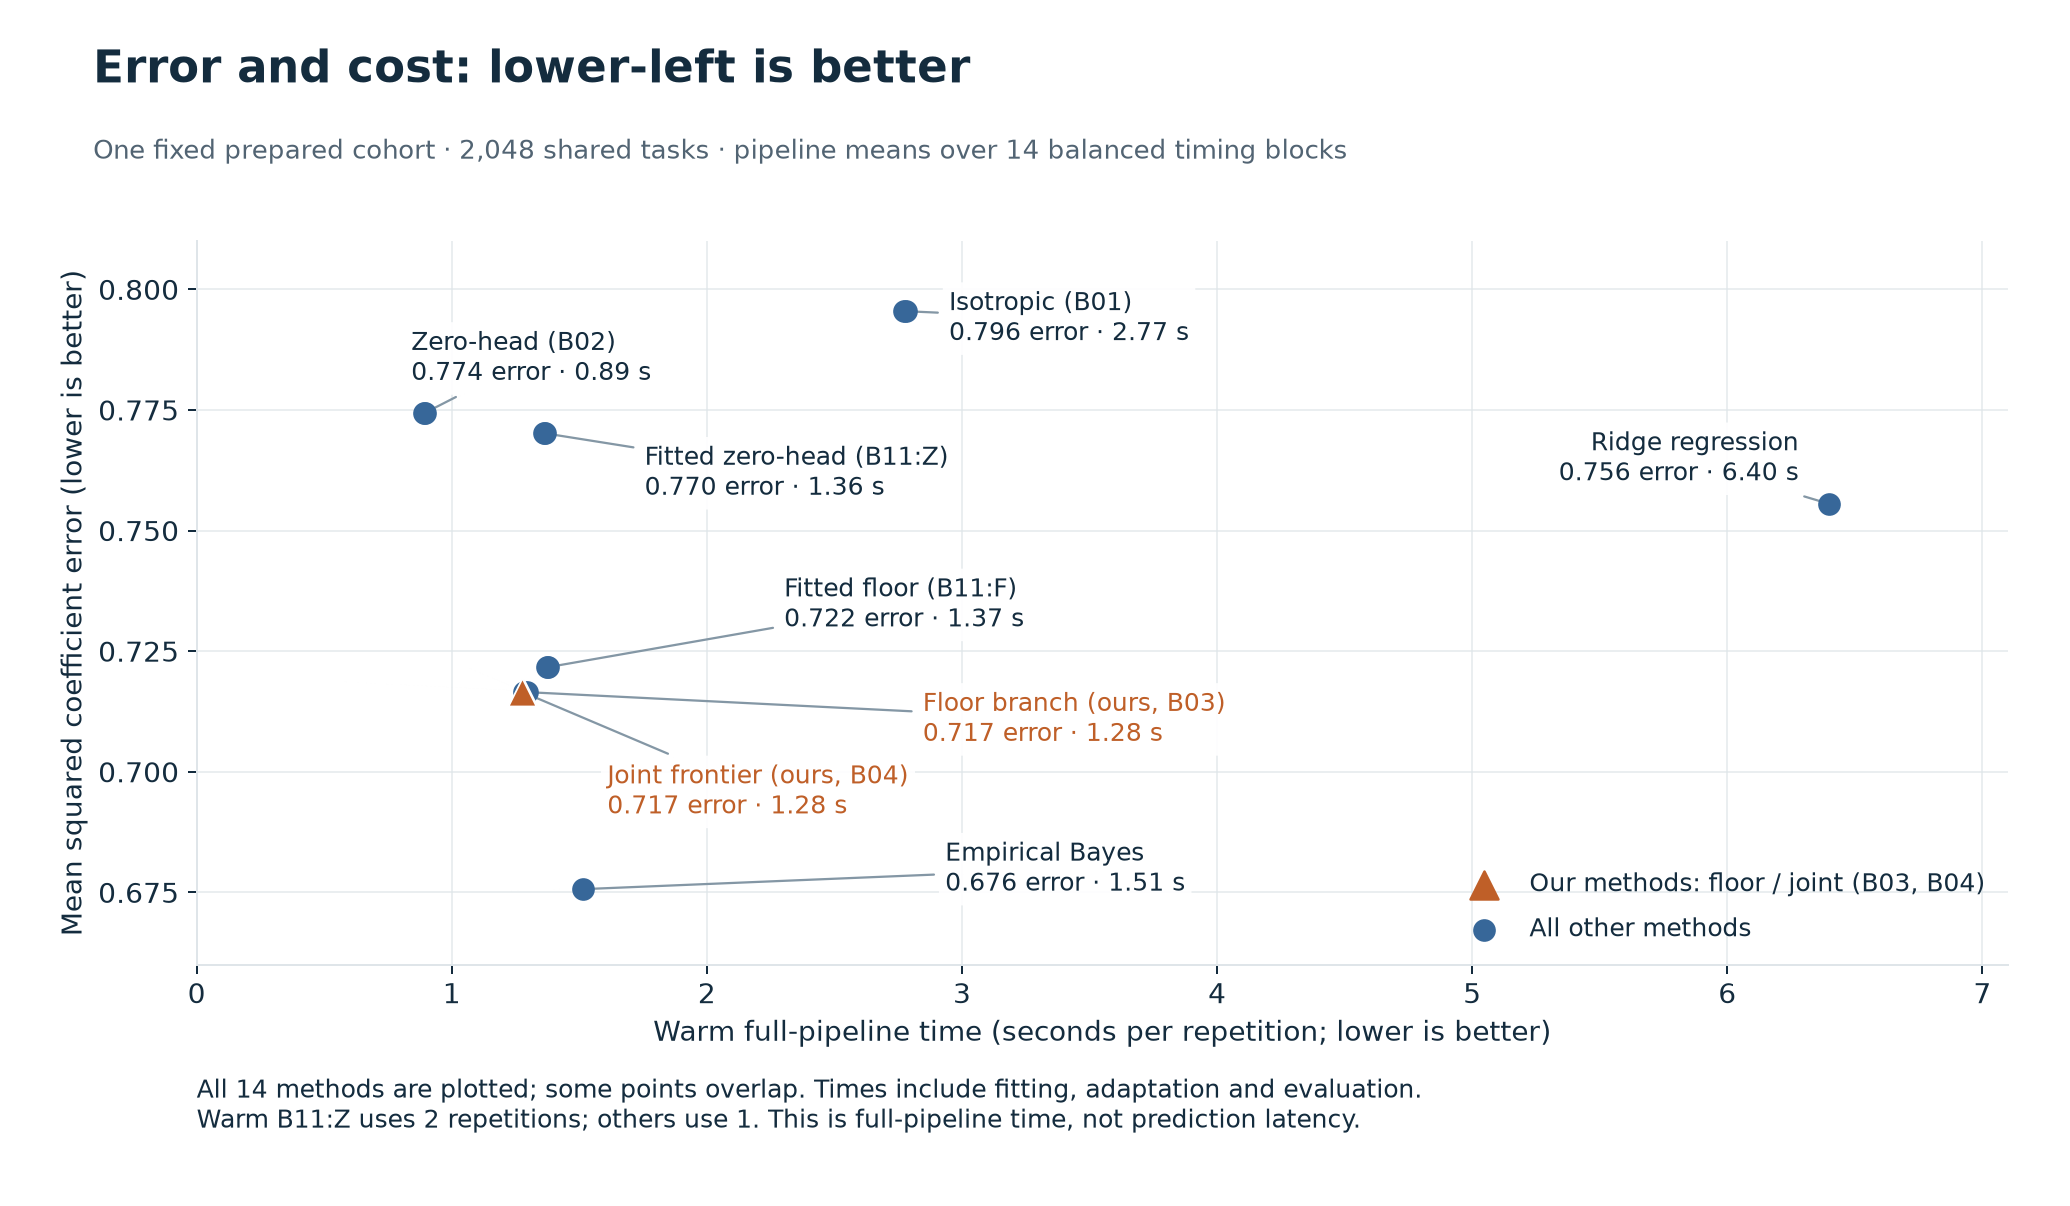
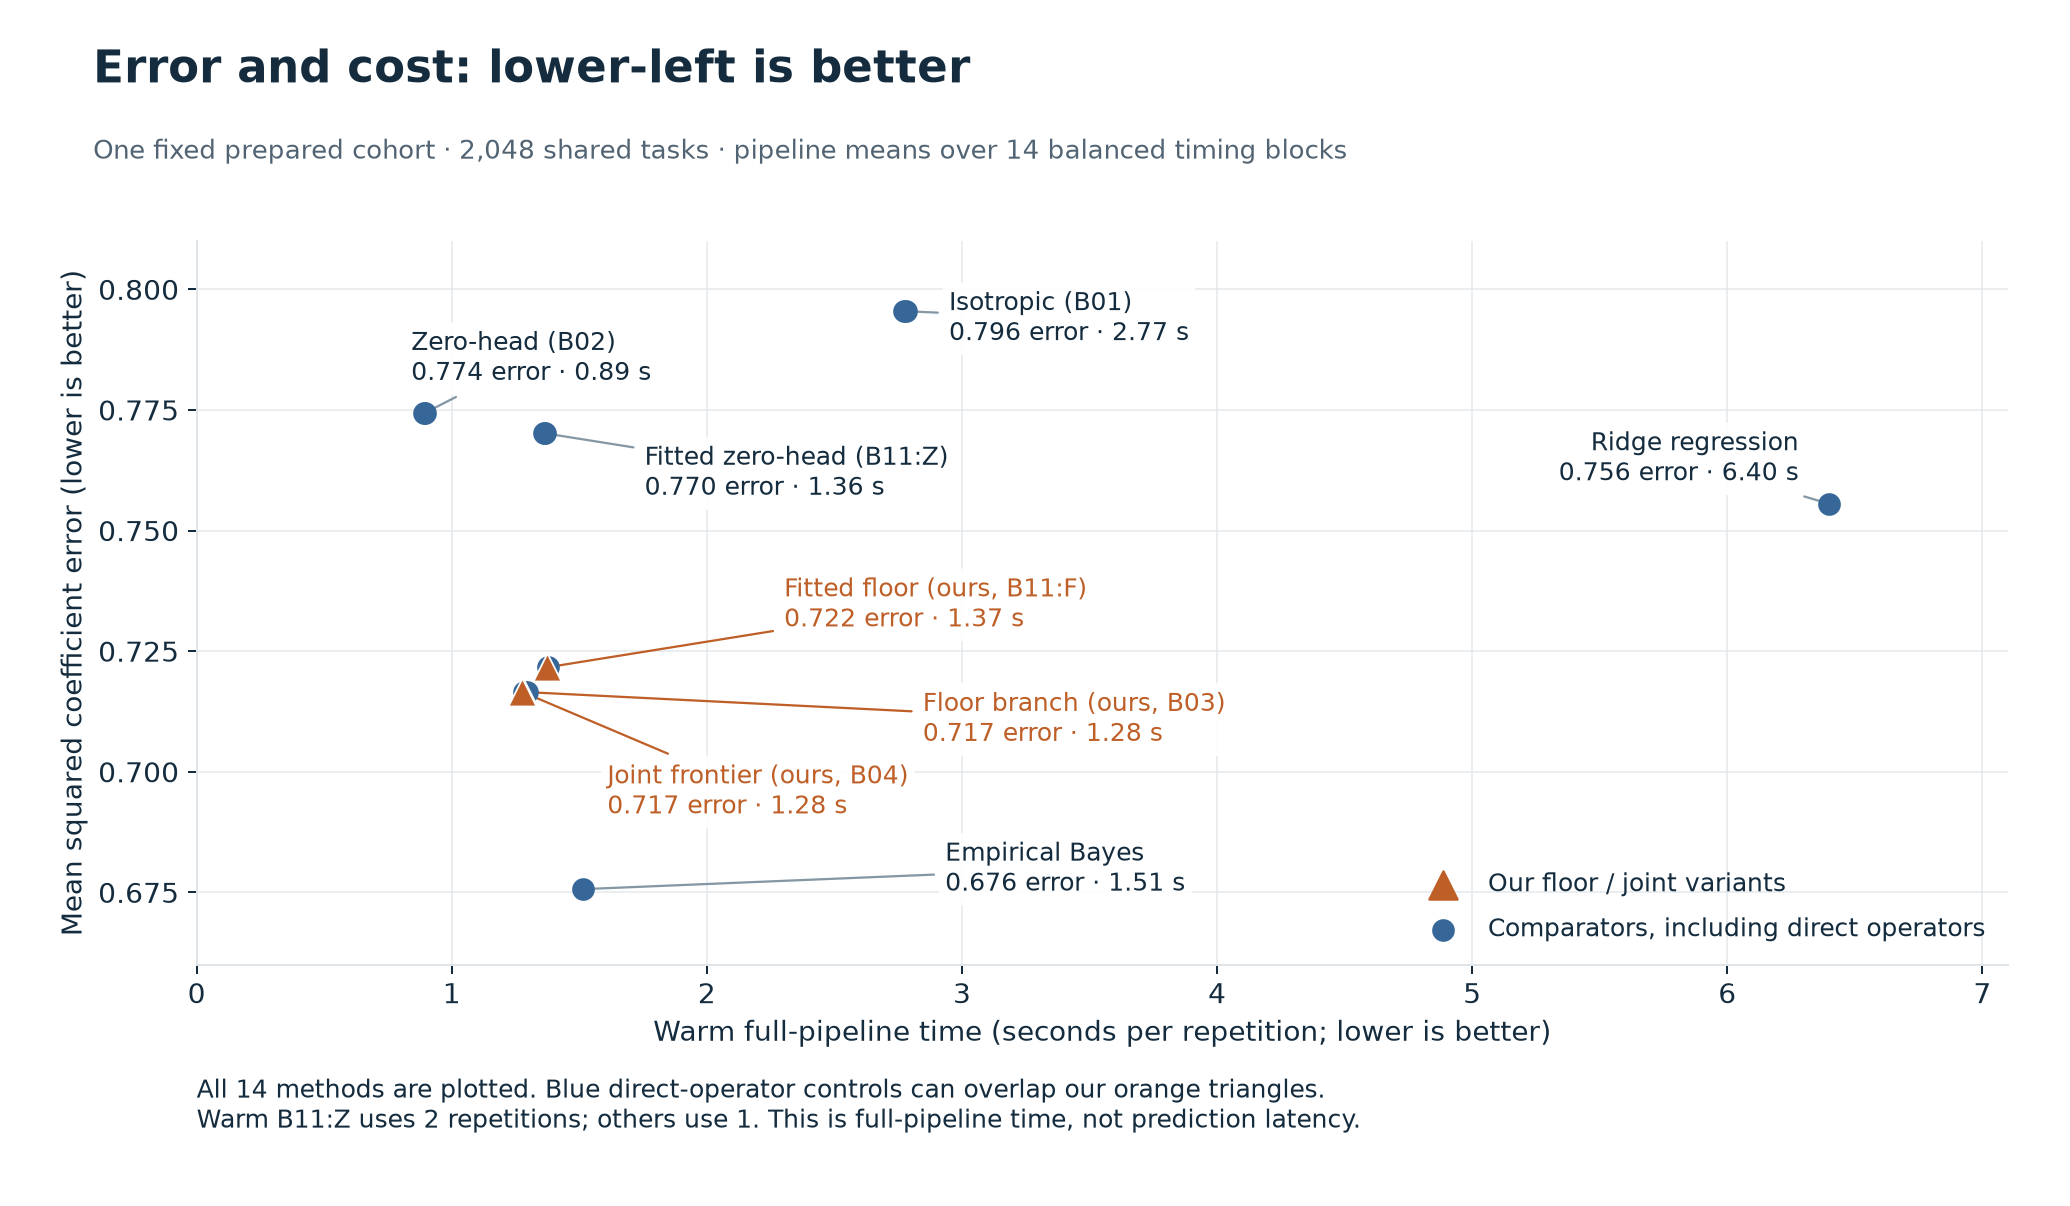
docs: highlight fitted floor as part of our method family

diff --git a/scripts/rebuild_release_figures.py b/scripts/rebuild_release_figures.py
@@ -7,7 +7,7 @@ import tempfile
 from verify_public_results import rows, verify
 
 INK, BLUE, ORANGE, GRID = '#142c3e', '#376799', '#bf5f28', '#dfe5e9'
-OUR_METHODS = {'B03', 'B04'}
+OUR_METHODS = {'B03', 'B04', 'B11:F'}
 
 
 def main():
@@ -93,7 +93,7 @@ def main():
             'B02': ('Zero-head (B02)', (-5, 22), 'left'),
             'B03': ('Floor branch (ours, B03)', (160, -11), 'left'),
             'B04': ('Joint frontier (ours, B04)', (34, -40), 'left'),
-            'B11:F': ('Fitted floor (B11:F)', (95, 25), 'left'),
+            'B11:F': ('Fitted floor (ours, B11:F)', (95, 25), 'left'),
             'B11:Z': ('Fitted zero-head (B11:Z)', (40, -16), 'left'),
             'B08:ridge': ('Ridge regression', (-12, 18), 'right'),
             'B10:empirical_bayes': ('Empirical Bayes', (145, 8), 'left'),
@@ -106,7 +106,9 @@ def main():
                           xy=(cost, error), xytext=offset, textcoords='offset points',
                           ha=align, va='center', fontsize=10,
                           color=ORANGE if name in OUR_METHODS else INK,
-                          arrowprops={'arrowstyle': '-', 'color': '#8497a5', 'lw': .9},
+                          arrowprops={'arrowstyle': '-',
+                                      'color': ORANGE if name in OUR_METHODS else '#8497a5',
+                                      'lw': .9},
                           bbox={'boxstyle': 'round,pad=.25', 'facecolor': 'white',
                                 'edgecolor': 'none', 'alpha': .94})
         axis.set(xlim=(0, 7.1), ylim=(.66, .81),
@@ -116,11 +118,11 @@ def main():
         axis.set_yticks([.675, .700, .725, .750, .775, .800])
         axis.grid(color=GRID, alpha=.65)
         axis.set_axisbelow(True)
-        axis.scatter([], [], s=125, color=ORANGE, marker='^', label='Our methods: floor / joint (B03, B04)')
-        axis.scatter([], [], s=65, color=BLUE, marker='o', label='All other methods')
+        axis.scatter([], [], s=125, color=ORANGE, marker='^', label='Our floor / joint variants')
+        axis.scatter([], [], s=65, color=BLUE, marker='o', label='Comparators, including direct operators')
         axis.legend(loc='lower right', frameon=False, fontsize=10, labelspacing=.8)
         fig.text(.095, .065,
-                 'All 14 methods are plotted; some points overlap. Times include fitting, adaptation and evaluation.\n'
+                 'All 14 methods are plotted. Blue direct-operator controls can overlap our orange triangles.\n'
                  'Warm B11:Z uses 2 repetitions; others use 1. This is full-pipeline time, not prediction latency.',
                  fontsize=10)
         save(fig, 'error-cost-tradeoff')

diff --git a/README.md b/README.md
@@ -59,8 +59,9 @@ adaptation and evaluation.
 
 By the recorded means, **B02 is fastest, empirical Bayes has the lowest error,
 and the floor/joint methods sit between them**. Orange triangles mark our floor
-branch (B03) and joint frontier (B04); comparators are blue circles. All six direct operators reproduce
-their network's task losses; their points overlap or sit nearby. The
+branch (B03), joint frontier (B04), and fitted floor variant (B11:F). Comparators
+are blue circles. All six direct operators reproduce their network's task losses;
+their blue circles can overlap our orange triangles. The
 construction establishes how to realize the learning map, with no special
 advantage from its network representation. These times aren't per-prediction latency.
 
